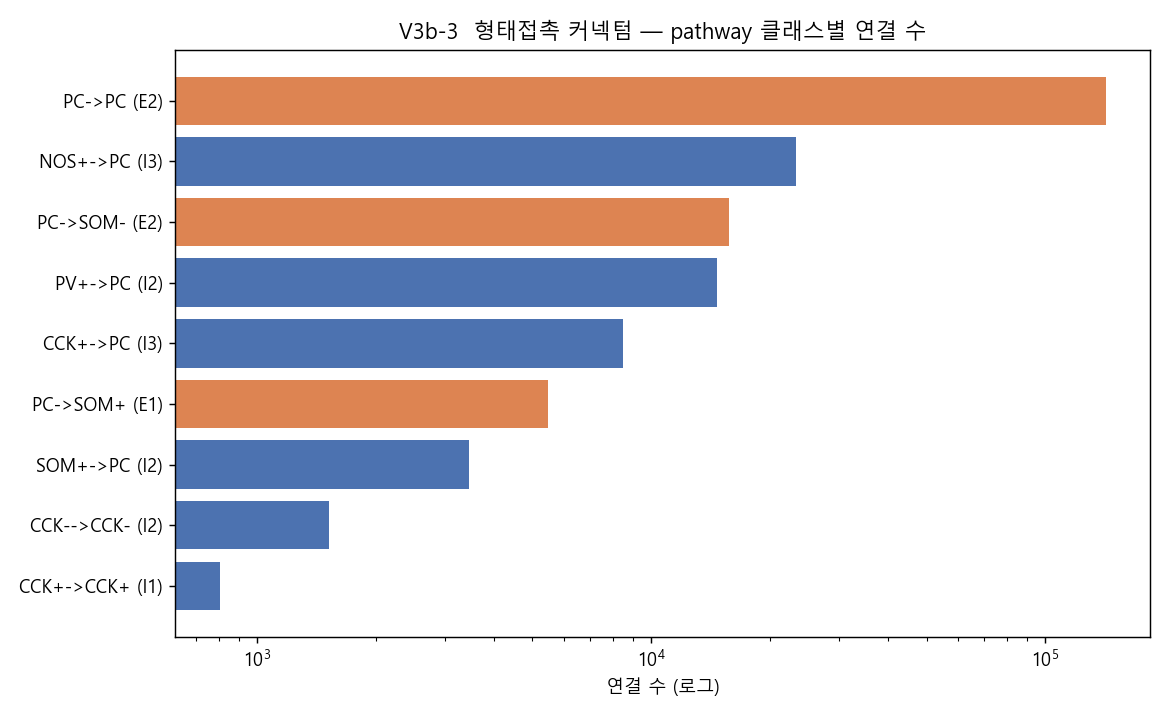
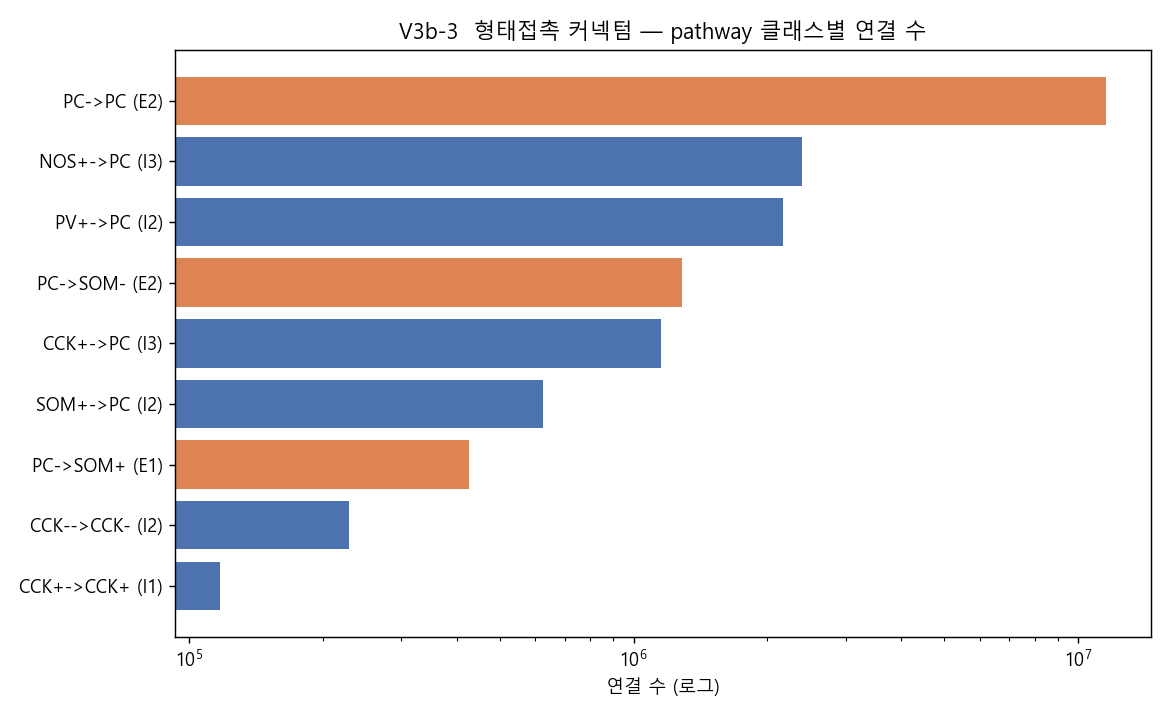
Full-slice touch connectome (hires: all 17,647 cells, full points, 2um)
- Morphology parse cached by name (2,189 unique) -> feasible on 103GB workstation
- 344.5M axon pts, 182.9M dend pts -> 19,952,393 connections, 1.69B raw appositions
- mean 84.9 syn/conn (median 31, max 6755) -> MASSIVE OVERESTIMATE (point-based double count)
  -> demonstrates pruning is essential (real CA1 PC->PC ~1-5 syn/conn)
- 128MB npz gitignored (regenerable via 'touch_connectome.py full hires')

diff --git a/like_slice_CA1/07_connectivity/touch_connectome.py b/like_slice_CA1/07_connectivity/touch_connectome.py
@@ -44,10 +44,14 @@ ASSIGN = os.path.join(ROOT, "05b_memap", "model_assignment.npz")
 FIG = os.path.join(HERE, "figures")
 os.makedirs(FIG, exist_ok=True)
 
-HALF_T1, HALF_T2 = 250.0, 50.0   # 박스 반폭: 가로500 × 두께100 µm × 전층
-N_SUB = 500                       # 세포당 축삭/수상 서브샘플 점 수
-TOUCH_R = 5.0                     # 접촉 반경 (µm)
+HALF_T1, HALF_T2 = 250.0, 50.0   # 박스 반폭(box 모드): 가로500 × 두께100 µm × 전층
+BATCH = 500_000                   # 축삭점 배치 크기 (메모리 상한)
 rng = np.random.default_rng(0)
+# 실행모드: argv 에 "full" → 전체 슬라이스, "hires" → 서브샘플 없이 전량점+반경2µm
+FULL = "full" in sys.argv[1:]
+HIRES = "hires" in sys.argv[1:]
+N_SUB = None if HIRES else 500    # None=서브샘플 없음(전량 점)
+TOUCH_R = 2.0 if HIRES else 5.0   # 접촉 반경 (µm)
 
 
 def local_frame(quat):
@@ -63,64 +67,83 @@ def main():
     N = len(xyz)
     mtypes_hyphen = np.array([m.replace("_", "-") for m in mt_us])
 
-    # 중심 추체 기준 박스 선택
-    pc = np.where(mt_us == "SP_PC")[0]
-    ctr = xyz[pc].mean(0)
-    c0 = pc[np.argmin(np.linalg.norm(xyz[pc] - ctr, axis=1))]
-    radial, t1, t2 = local_frame(quat[c0])
-    rel = xyz - xyz[c0]
-    inbox = (np.abs(rel @ t1) < HALF_T1) & (np.abs(rel @ t2) < HALF_T2)
-    sub = np.where(inbox)[0]
-    print(f"[box] 하위부피 세포 {len(sub)} / {N:,} "
-          f"(가로{2*HALF_T1:.0f}×두께{2*HALF_T2:.0f}µm×전층)")
+    # 대상 세포: full → 전체, 아니면 중심 추체 기준 박스
+    if FULL:
+        sub = np.arange(N)
+        print(f"[full] 전체 슬라이스 세포 {len(sub):,}")
+    else:
+        pc = np.where(mt_us == "SP_PC")[0]
+        c0 = pc[np.argmin(np.linalg.norm(xyz[pc] - xyz[pc].mean(0), axis=1))]
+        radial, t1, t2 = local_frame(quat[c0])
+        rel = xyz - xyz[c0]
+        inbox = (np.abs(rel @ t1) < HALF_T1) & (np.abs(rel @ t2) < HALF_T2)
+        sub = np.where(inbox)[0]
+        print(f"[box] 하위부피 세포 {len(sub)} / {N:,} "
+              f"(가로{2*HALF_T1:.0f}×두께{2*HALF_T2:.0f}µm×전층)")
 
-    # 각 세포 형태 변환 + 축삭(pre)/수상+소마(post) 점 서브샘플
+    # 각 세포 형태 변환 + 축삭(pre)/수상+소마(post) 점.
+    # 최적화: 형태(.swc) 파싱을 이름별 캐싱 (17,647세포가 2,189 고유형태 공유).
+    print(f"[mode] {'HIRES 전량점·2µm' if HIRES else '서브샘플 500·5µm'}")
+    cache = {}
     axon_pts, axon_cell = [], []
     dend_pts, dend_cell = [], []
     for local_i, k in enumerate(sub):
-        try:
-            s = mt.load_swc(os.path.join(MORPH_DIR, morph[k] + ".swc"))
-        except FileNotFoundError:
-            continue
-        w, _ = mt.transform(s["xyz"], mt.soma_center(s), quat[k], xyz[k])
-        ax = w[s["type"] == 2]
-        de = w[(s["type"] == 1) | (s["type"] == 3) | (s["type"] == 4)]
-        if len(ax) > N_SUB:
-            ax = ax[rng.choice(len(ax), N_SUB, replace=False)]
-        if len(de) > N_SUB:
-            de = de[rng.choice(len(de), N_SUB, replace=False)]
-        axon_pts.append(ax); axon_cell.append(np.full(len(ax), k))
-        dend_pts.append(de); dend_cell.append(np.full(len(de), k))
-        if (local_i + 1) % 200 == 0:
-            print(f"  로드 {local_i+1}/{len(sub)}")
+        name = morph[k]
+        s = cache.get(name)
+        if s is None:
+            try:
+                s = mt.load_swc(os.path.join(MORPH_DIR, name + ".swc"))
+            except FileNotFoundError:
+                continue
+            cache[name] = {"xyz": s["xyz"], "soma": mt.soma_center(s),
+                           "isax": s["type"] == 2,
+                           "isde": (s["type"] == 1) | (s["type"] >= 3)}
+            s = cache[name]
+        w, _ = mt.transform(s["xyz"], s["soma"], quat[k], xyz[k])
+        ax = w[s["isax"]]; de = w[s["isde"]]
+        if N_SUB is not None:
+            if len(ax) > N_SUB:
+                ax = ax[rng.choice(len(ax), N_SUB, replace=False)]
+            if len(de) > N_SUB:
+                de = de[rng.choice(len(de), N_SUB, replace=False)]
+        axon_pts.append(ax); axon_cell.append(np.full(len(ax), k, np.int32))
+        dend_pts.append(de); dend_cell.append(np.full(len(de), k, np.int32))
+        if (local_i + 1) % 2000 == 0:
+            print(f"  로드 {local_i+1}/{len(sub)} (고유형태 캐시 {len(cache)})", flush=True)
     axon_pts = np.vstack(axon_pts); axon_cell = np.concatenate(axon_cell)
     dend_pts = np.vstack(dend_pts); dend_cell = np.concatenate(dend_cell)
     print(f"[points] 축삭 {len(axon_pts):,} · 수상/소마 {len(dend_pts):,}")
 
     # 접촉 검색: 축삭점 근처(≤TOUCH_R) 수상점 → (pre,post) appositions
+    # 축삭점을 BATCH 단위로 쿼리(메모리 상한), 벡터화로 (pre,post) 누적
     tree = cKDTree(dend_pts)
-    appo = Counter()                              # (pre,post) -> apposition 수
-    nbr = tree.query_ball_point(axon_pts, TOUCH_R)
-    for ai, hits in enumerate(nbr):
-        if not hits:
+    pre_all, post_all = [], []
+    n_ax = len(axon_pts)
+    for s in range(0, n_ax, BATCH):
+        e = min(s + BATCH, n_ax)
+        nbr = tree.query_ball_point(axon_pts[s:e], TOUCH_R, workers=-1)
+        lengths = np.fromiter((len(h) for h in nbr), dtype=np.int64, count=e - s)
+        if lengths.sum() == 0:
             continue
-        pre = int(axon_cell[ai])
-        posts = dend_cell[hits]
-        for po in posts:
-            po = int(po)
-            if po != pre:
-                appo[(pre, po)] += 1
-    print(f"[touch] 접촉쌍(pre,post) {len(appo):,} · 총 apposition {sum(appo.values()):,}")
+        ax_rep = np.repeat(np.arange(s, e), lengths)          # 축삭점 index
+        de_hit = np.concatenate([np.asarray(h, dtype=np.int64) for h in nbr if h])
+        pre = axon_cell[ax_rep]; post = dend_cell[de_hit]
+        m = pre != post
+        pre_all.append(pre[m]); post_all.append(post[m])
+        print(f"  [touch] 축삭 {e:,}/{n_ax:,} 처리")
+    pre_t = np.concatenate(pre_all); post_t = np.concatenate(post_all)
+    print(f"[touch] 총 apposition(자기제외) {len(pre_t):,}")
 
-    # 연결 = apposition ≥1. 시냅스 수 ≈ apposition 수.
-    pairs = np.array(list(appo.keys()))
-    syn = np.array(list(appo.values()))
-    pre_c, post_c = pairs[:, 0], pairs[:, 1]
+    # (pre,post) 별 apposition 수 = 시냅스 수 ≈. np.unique 로 집계.
+    key = pre_t.astype(np.int64) * N + post_t.astype(np.int64)
+    uk, syn = np.unique(key, return_counts=True)
+    pre_c = (uk // N).astype(np.int32); post_c = (uk % N).astype(np.int32)
+    print(f"[touch] 접촉쌍(pre,post) {len(uk):,}")
     # pathway_class 분류
     cls = np.array([pathway_class(mtypes_hyphen[p], mtypes_hyphen[q])
                     for p, q in zip(pre_c, post_c)], dtype=object)
     valid = cls != None                            # noqa: E711
-    n_conn = len(pairs); n_conn_valid = int(valid.sum())
+    n_conn = len(pre_c); n_conn_valid = int(valid.sum())
     n_syn = int(syn.sum())
     dist = np.linalg.norm(xyz[pre_c] - xyz[post_c], axis=1)
     print(f"[conn] 연결(pair) {n_conn:,} (pathway 유효 {n_conn_valid:,})  "